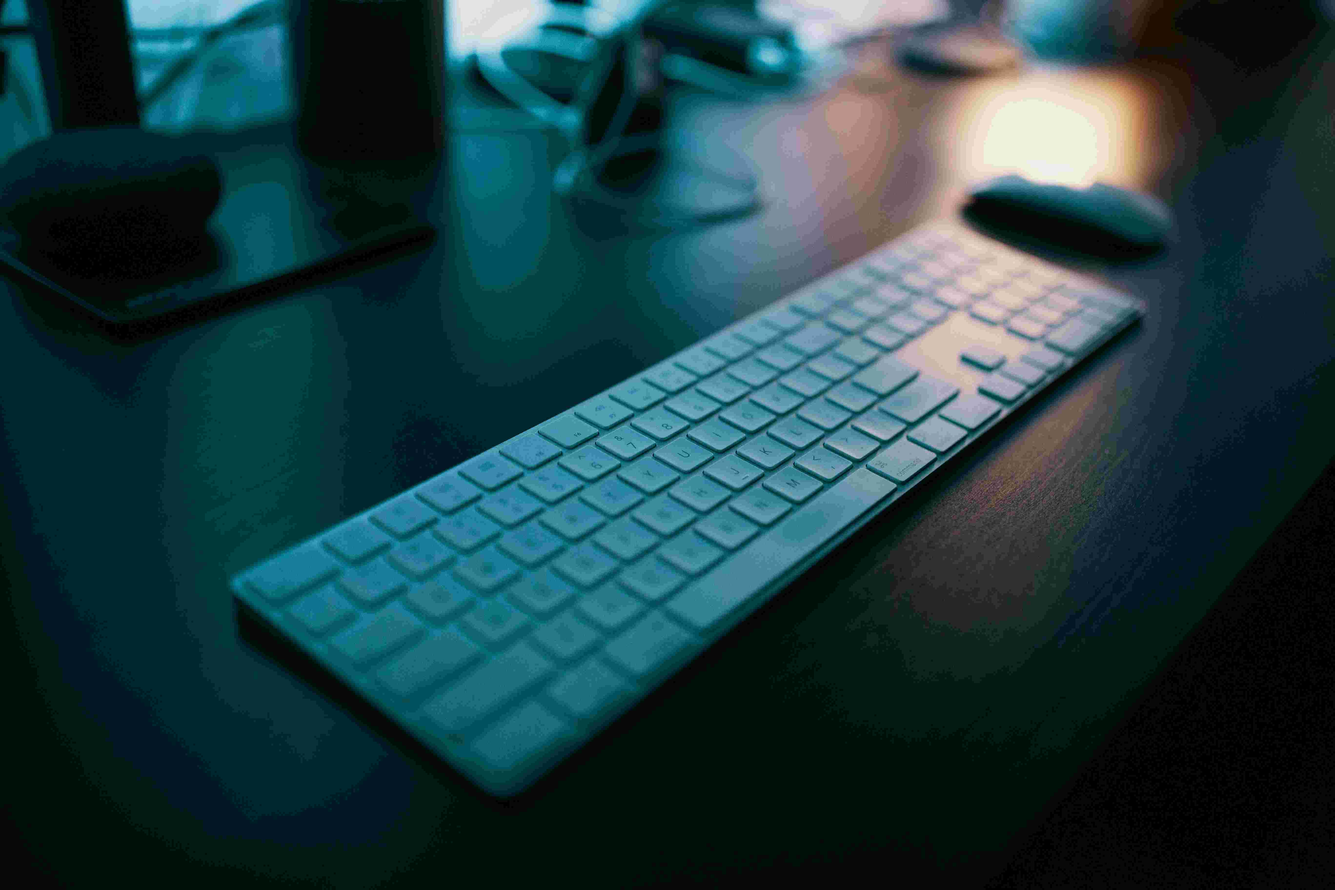
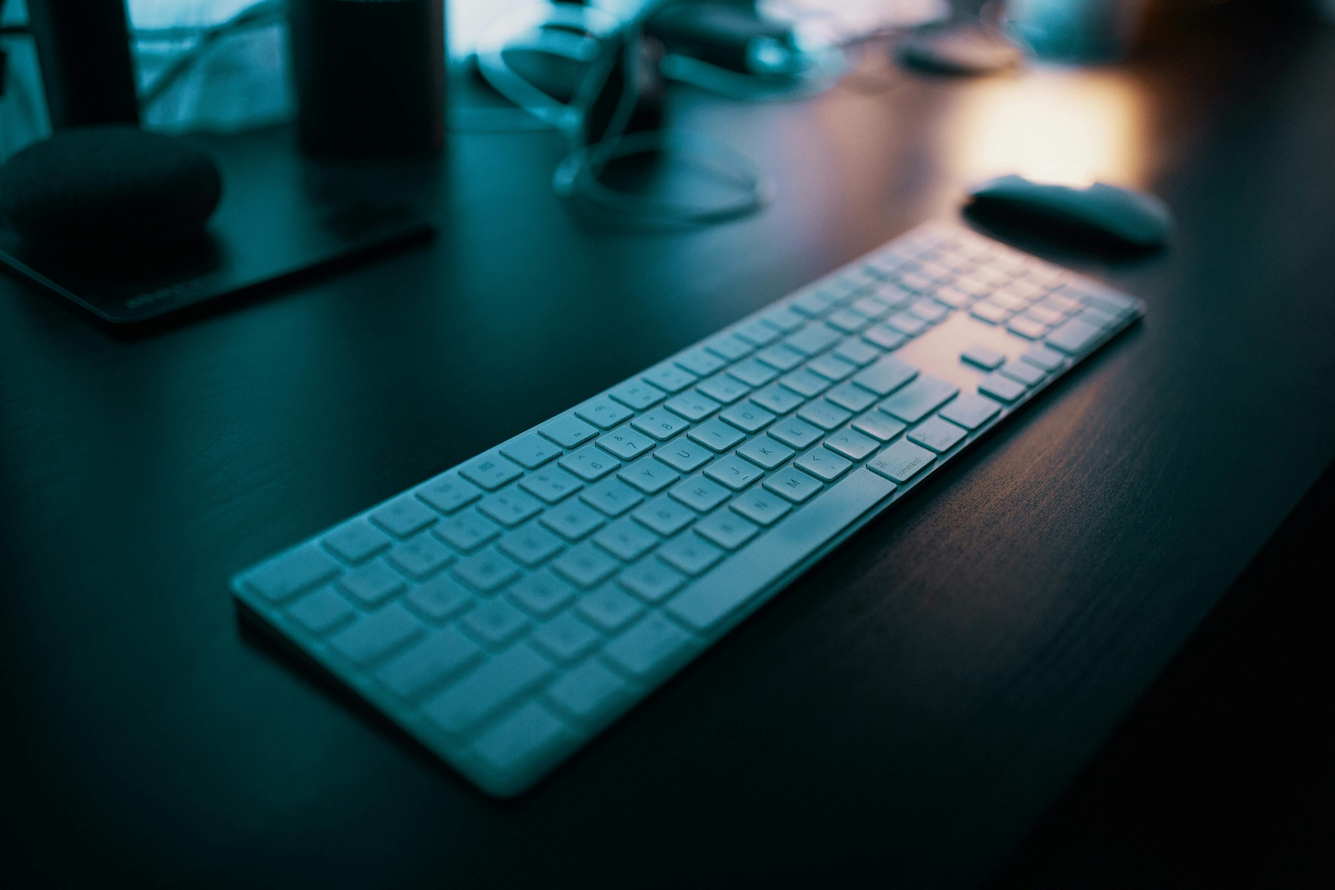
BG img w lower res

Changed region(s): [[0.7188, 0.5312, 0.7812, 0.5625], [0.4062, 0.0312, 0.4375, 0.0625]]

diff --git a/index.html b/index.html
@@ -85,7 +85,7 @@
     <!-- Hero Section -->
     <section id="hero" class="hero section dark-background">
 
-      <img src="assets/img/hero-bg-1.jpg" alt="" data-aos="fade-in" class="">
+      <img src="assets/img/hero-bg-1-low.jpg" alt="" data-aos="fade-in" loading="lazy">
 
       <div class="container" data-aos="fade-up" data-aos-delay="100">
         <h2>Rubait Reshad</h2>
